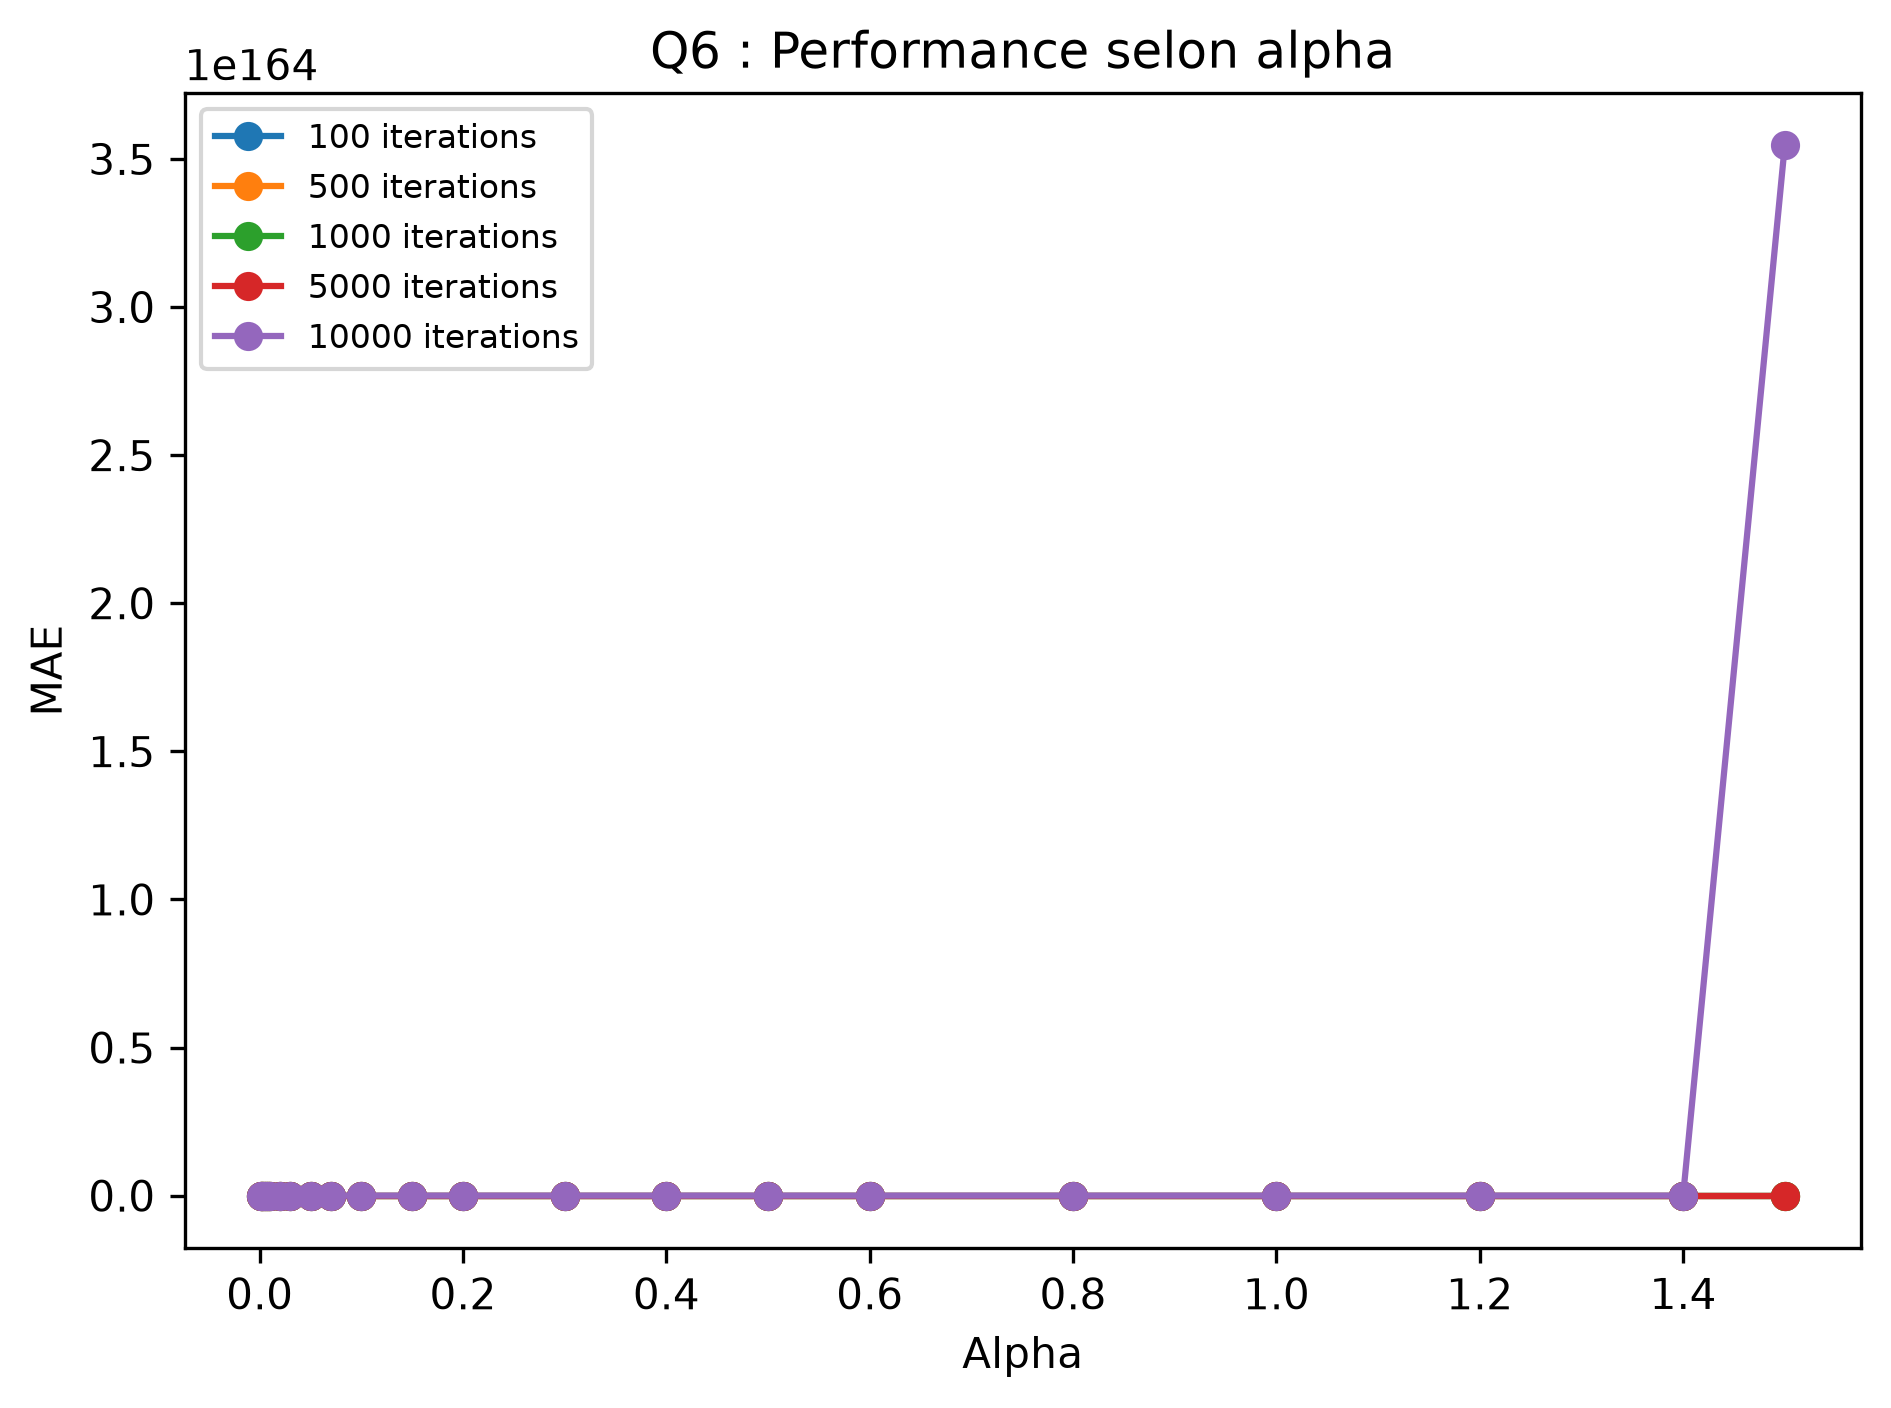
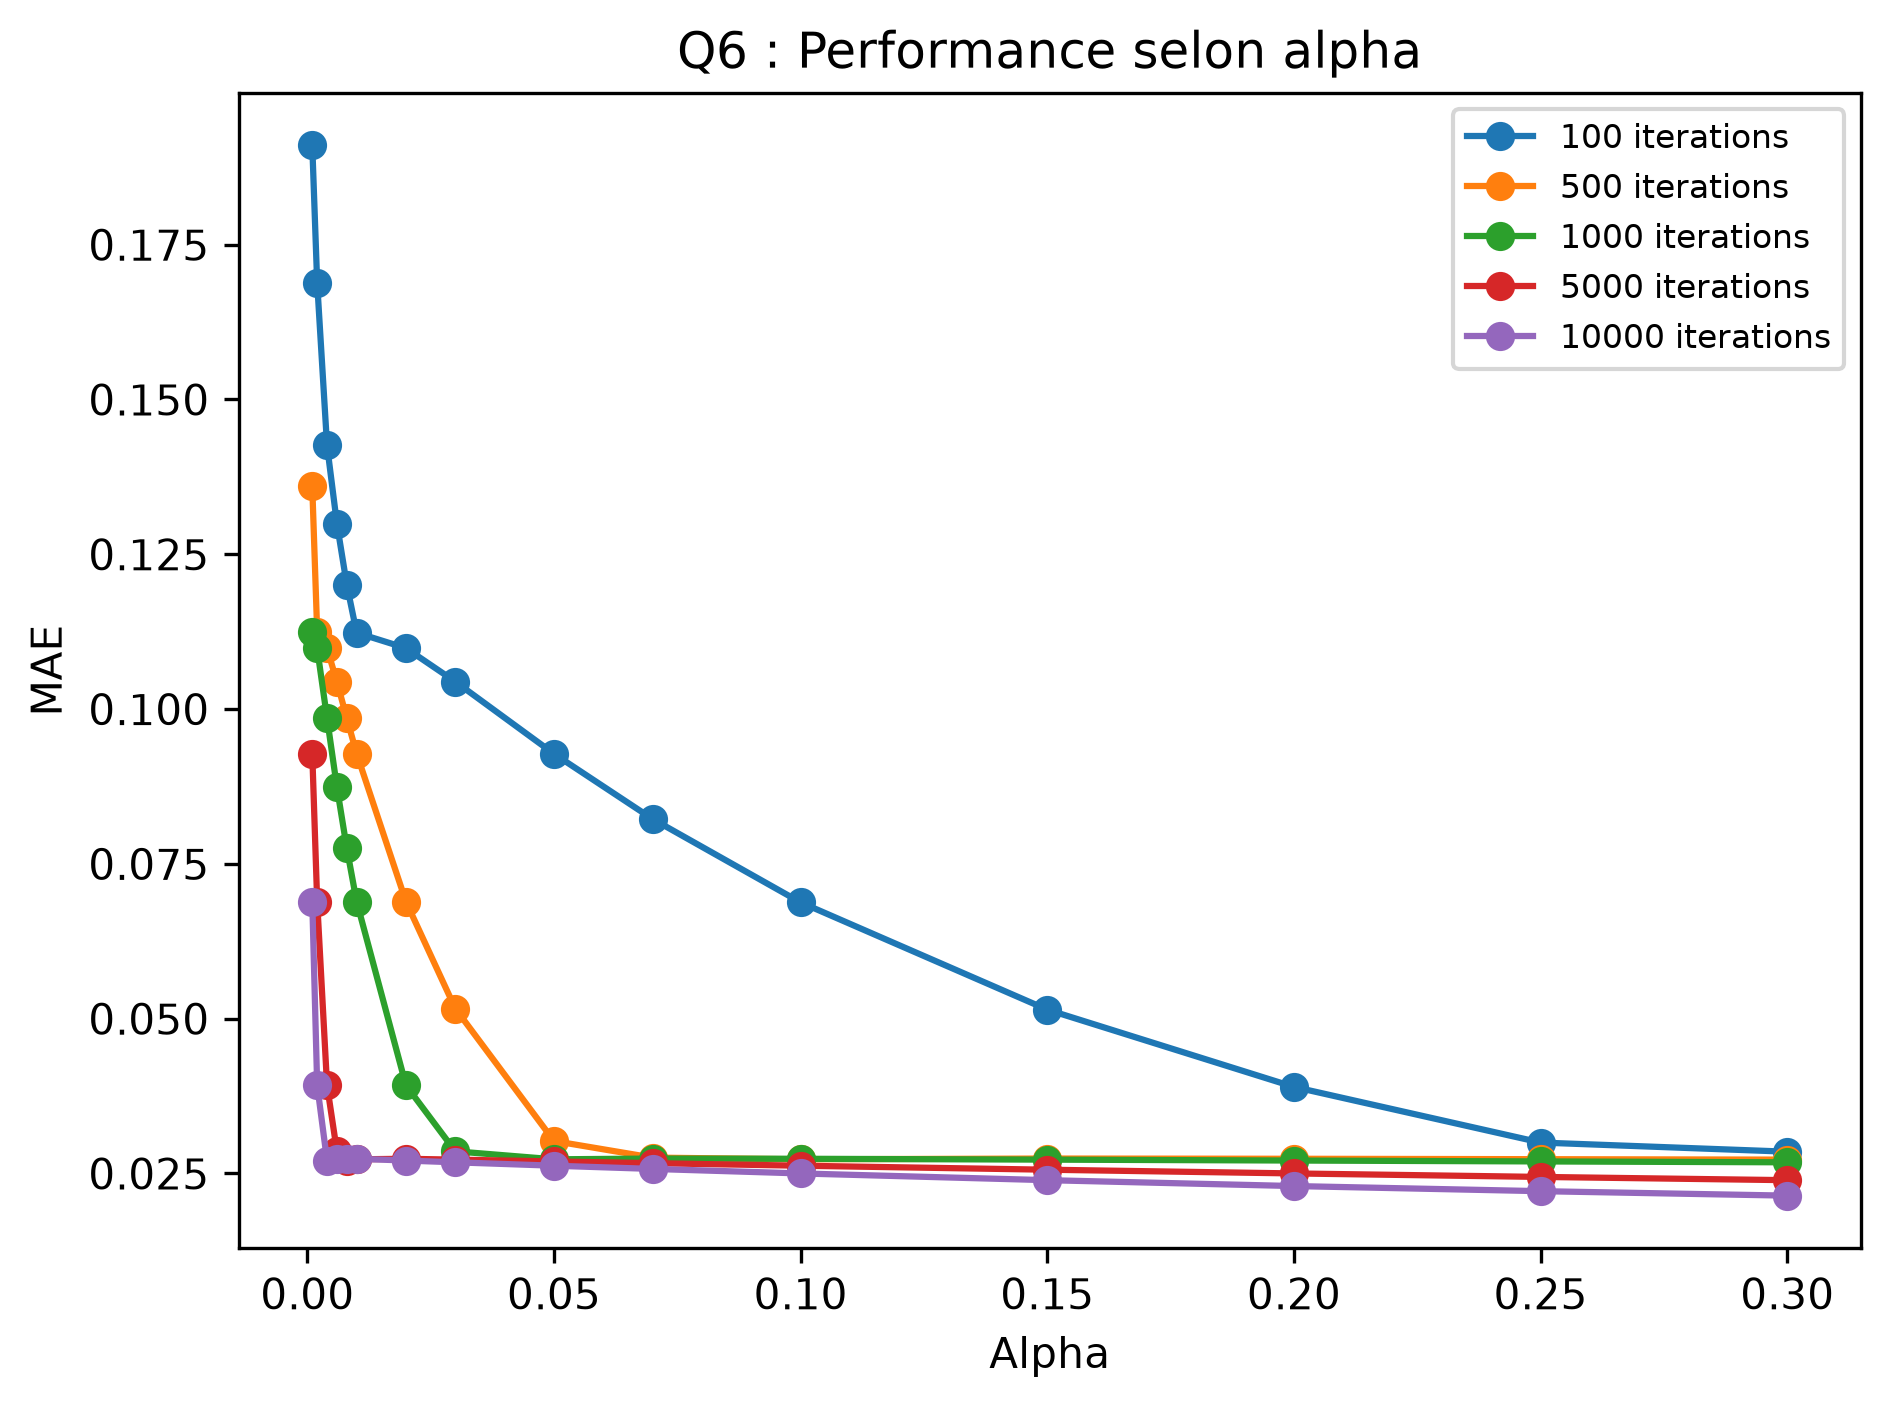
update : fix V2 alpha values so wont all diverge

diff --git a/tp_gradient_descendantV2.py b/tp_gradient_descendantV2.py
@@ -66,9 +66,7 @@ def entrainer(X, theta, alpha, n):
 alphas = [
     0.001, 0.002, 0.004, 0.006, 0.008,
     0.01, 0.02, 0.03, 0.05, 0.07,
-    0.1, 0.15, 0.2, 0.3, 0.4,
-    0.5, 0.6, 0.8, 1.0, 1.2,
-    1.4, 1.5
+    0.1, 0.15, 0.2, 0.25, 0.3
 ] # update apres seance
 
 iterations = [100, 500, 1000, 5000, 10000]
